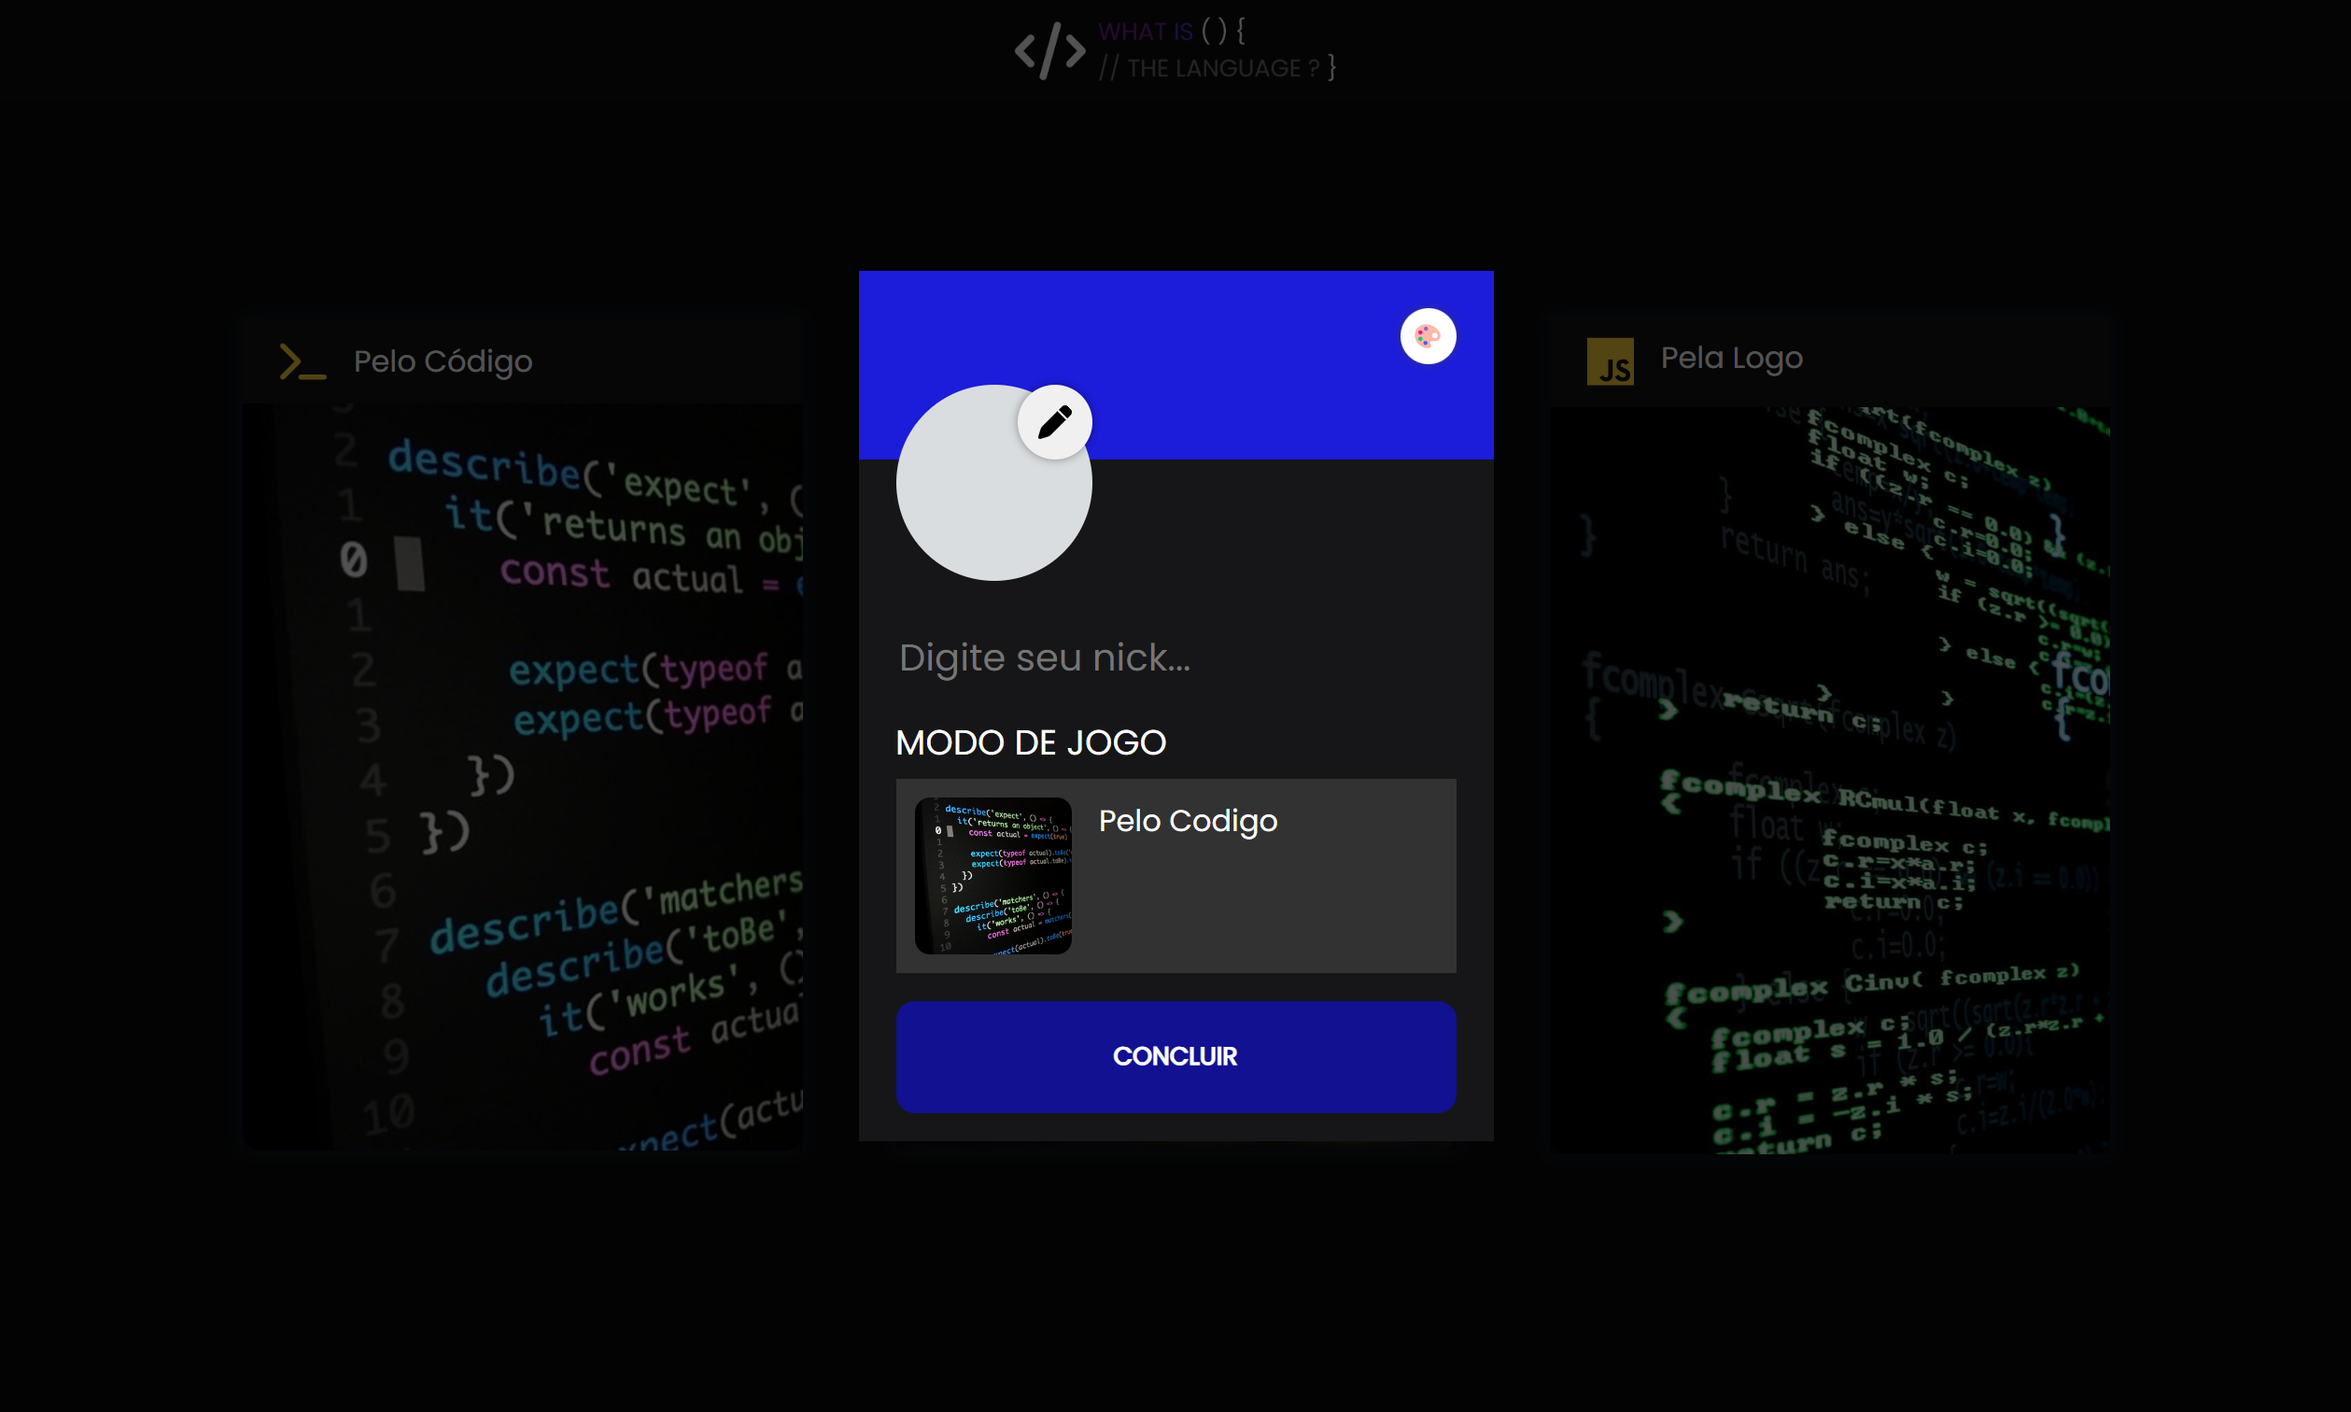
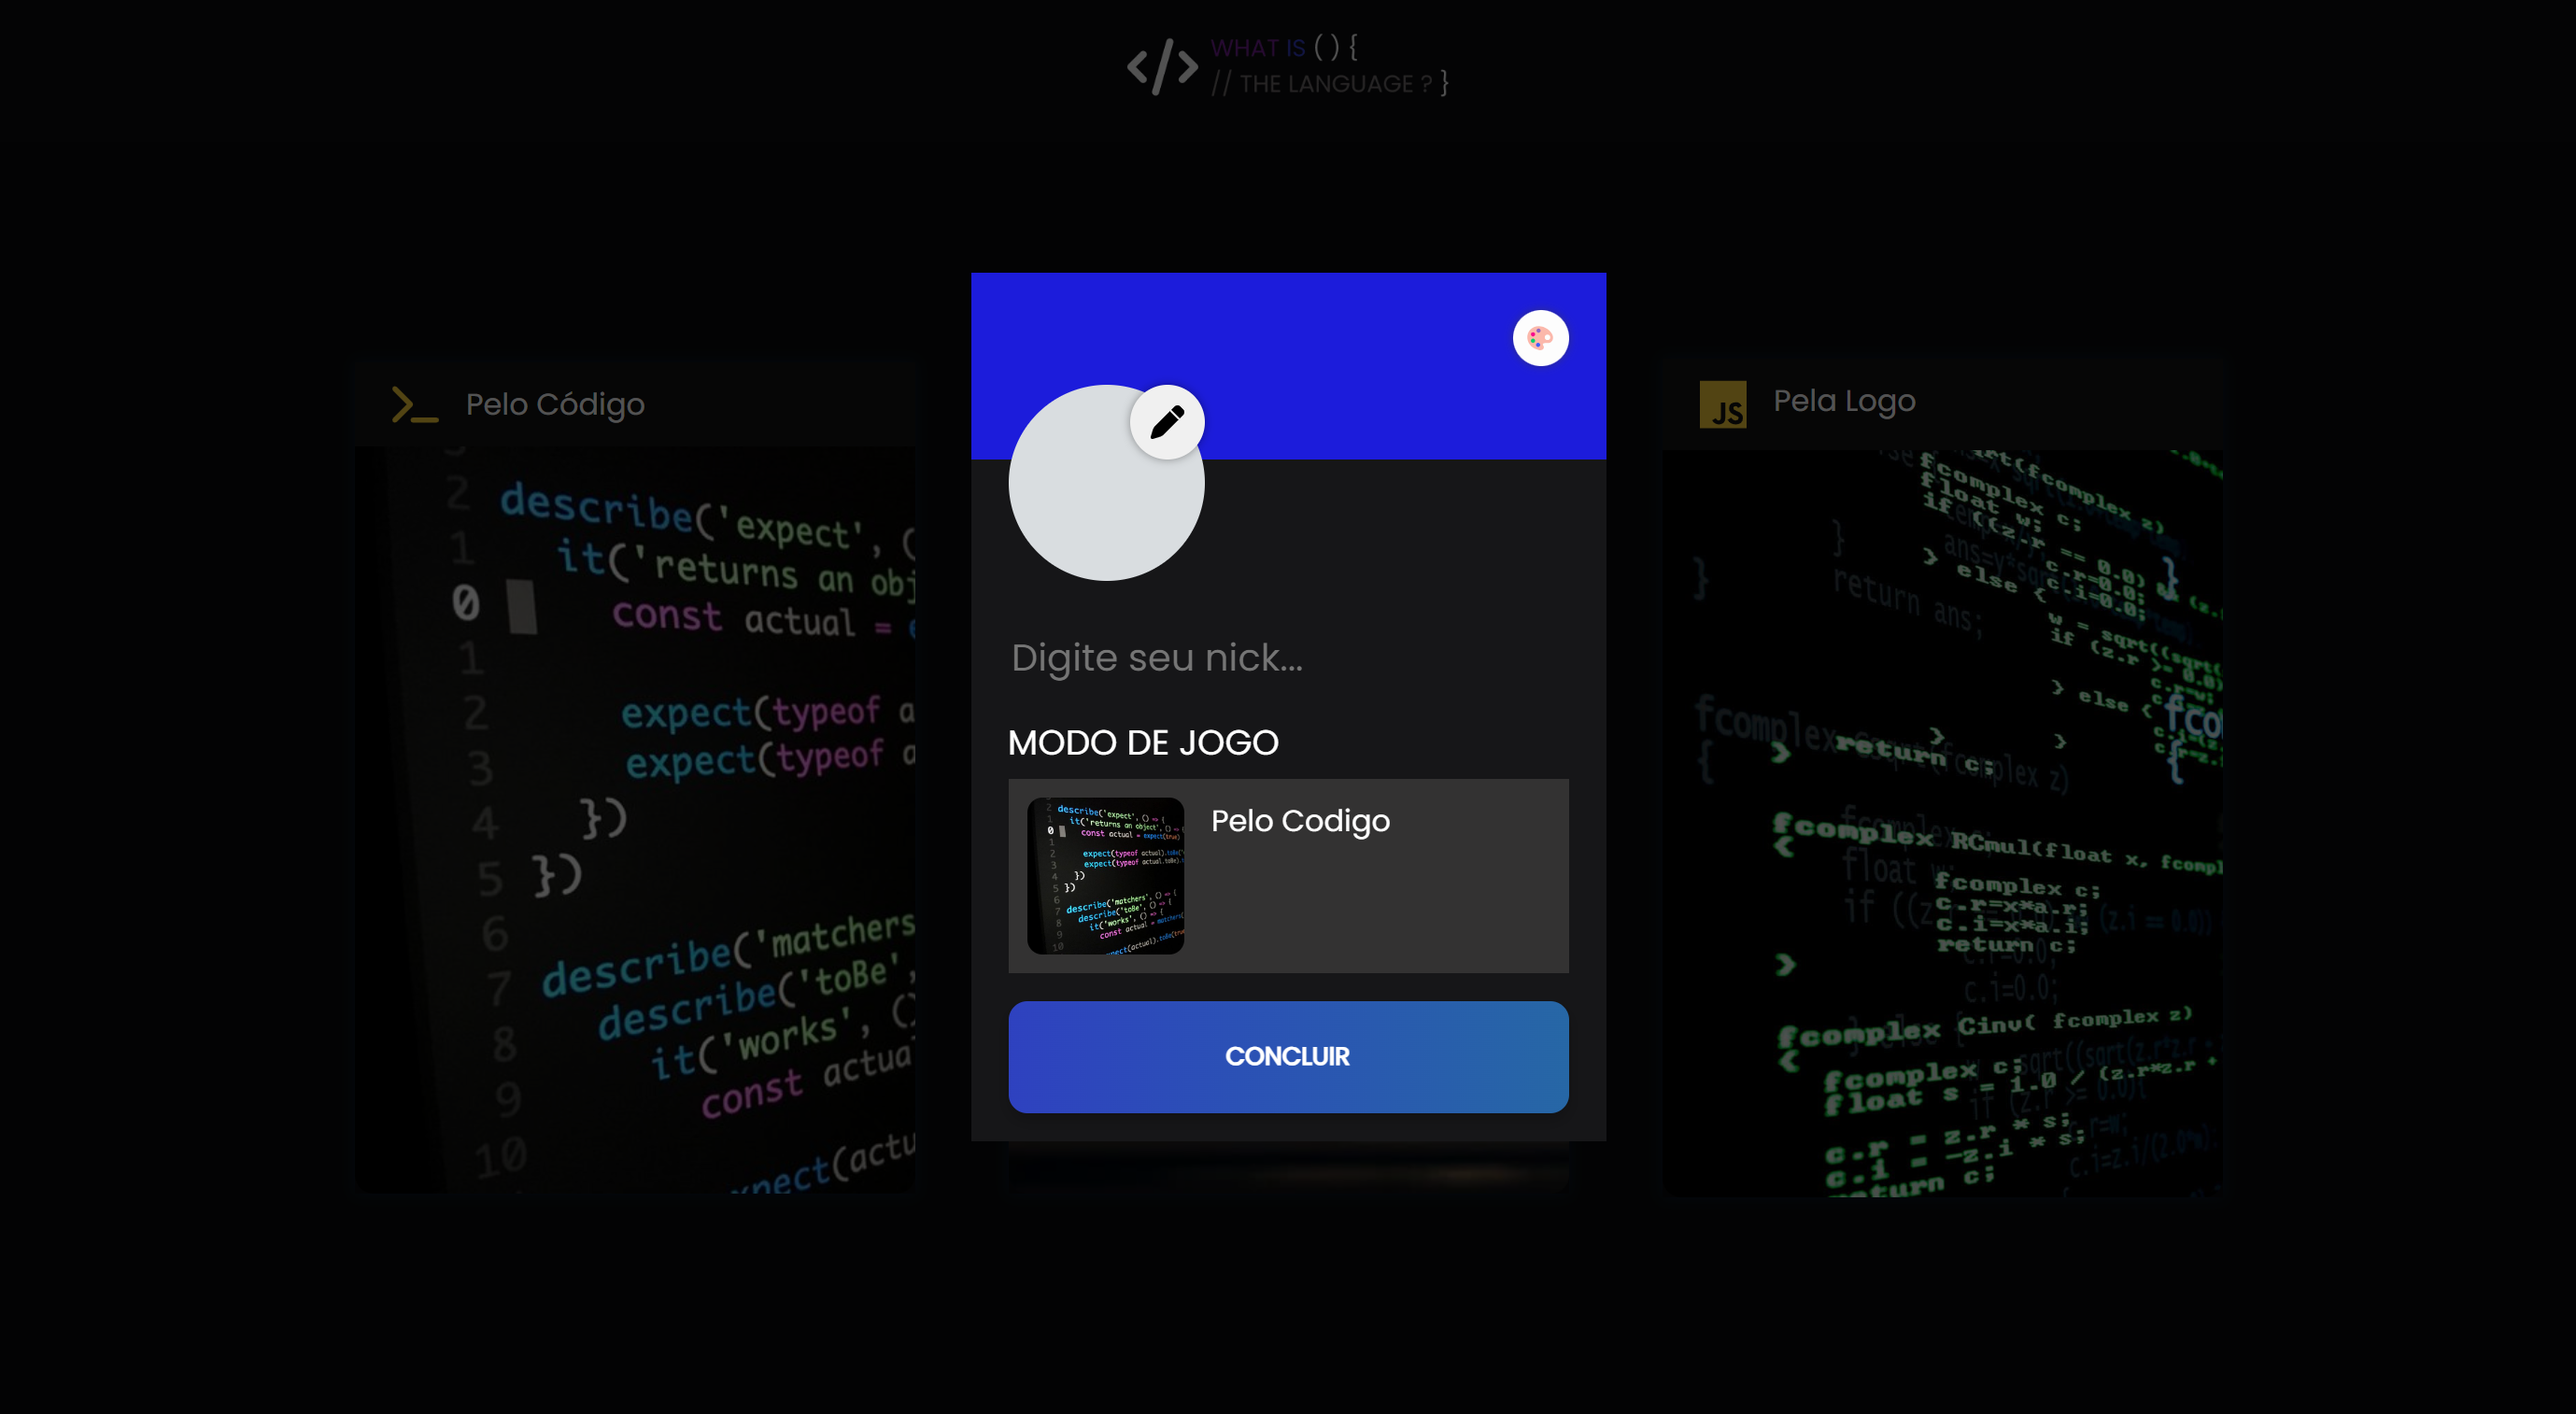
docs: Adiciona tutorial de como instalar o banco de dados

diff --git a/src/front-end/css/peloCodigo.css b/src/front-end/css/peloCodigo.css
@@ -297,7 +297,10 @@ main{
 }
 
 .modal-content button {
-  background-color: #102fb6;
+  background: linear-gradient(90deg, #3230cc, #2668a5, #310adb);
+  background-size: 300% 100%;
+  animation: gradientMove 3s linear infinite;
+  transition: transform 0.3s ease;
   color: white;
   padding: 10px 20px;
   margin-top: 15px;

diff --git a/README.md b/README.md
@@ -4,7 +4,7 @@
 ![logo](src/front-end/assets/icons/logo-large.png)
 </div>
 
-Um projeto Full-Stack desenvolvido na avaliação de Desenvolvimento Web, com o tema livre, decidi criar um site Game interativo e divertido de advinhar linguagens de programação. Como inspiração usei o site [Gamedle](https://www.gamedle.wtf).
+Um projeto Full-Stack desenvolvido na avaliação de Desenvolvimento Web, com o tema livre, decidi criar um Game Web interativo e divertido de advinhar linguagens de programação. Como inspiração usei o site [Gamedle](https://www.gamedle.wtf).
 
 ## </> Topicos
 
@@ -13,12 +13,13 @@ Um projeto Full-Stack desenvolvido na avaliação de Desenvolvimento Web, com o 
 - [Tecnologias Utilizadas](#tecnologias-utilizadas)
 - [Endpoints da API](#endpoints-da-api)
 - [Como Executar o Projeto Localmente](#como-executar-o-projeto-localmente)
+- [Como Configurar o Banco De Dados](#como-configurar-o-banco-de-dados)
 - [Licença](#licença)
 - [Contato](#contato)
 
 ## </> Descrição do Projeto
 
-O **What Is The Language**  ou **WITL** é um site Game onde o usuário advinha qual é a linguagem de progamação através de dicas, o usuário pode escolher entre 2 modos de jogo, **Advinhe Pela Logo** ou **Advinhe Pelo Código**, ambos os modos possuem sistemas de pontos e vidas, o usuário ganha pontos por acertar a advinhar a linguagem e perde vidas toda vez que erra. O jogo encerra quando o usuário perder todas as vidas ou acertando todas as linguagens, após isso aparecerá uma tela **Ranking** de todos os jogadores com seus nomes e suas pontuações.
+O **What Is The Language**  ou **WITL** é um Game Web onde o usuário advinha qual é a linguagem de progamação através de dicas, o usuário pode escolher entre 2 modos de jogo, **Advinhe Pela Logo** ou **Advinhe Pelo Código**, ambos os modos possuem sistemas de pontos e vidas, o usuário ganha pontos por acertar a advinhar a linguagem e perde vidas toda vez que erra. O jogo encerra quando o usuário perder todas as vidas ou acertando todas as linguagens, após isso aparecerá uma tela **Ranking** de todos os jogadores com seus nomes e suas pontuações.
 
 ## </> Screenshots Do Projeto
 **Screenshots Mobile - (Clique nas imagens para amplia-las)**
@@ -29,6 +30,7 @@ O **What Is The Language**  ou **WITL** é um site Game onde o usuário advinha 
   <img src="readme/Mobile/PeloCodigo-mobile.png" alt="Tela inicial de Pelo Codigo" width="150"/>
   <img src="readme/Mobile/Pelo Codigo - mobile - acerto.png" alt="modal de acerto" width="150"/>
   <img src="readme/Mobile/ranking-mobile.png" alt="ranking geral" width="150"/>
+  <img src="readme/Mobile/PeloCodigo-Fim.png" alt="fim" width="150"/>
 </div>
 
 **Screenshots Desktop - (Clique nas imagens para amplia-las)**
@@ -39,6 +41,7 @@ O **What Is The Language**  ou **WITL** é um site Game onde o usuário advinha 
   <img src="readme/Desktop/pelocodigo-desktop.png" alt="Tela incial de Pelo Codigo" width="350"/>
   <img src="readme/Desktop/pelocodigo-desktop-acerto.png" alt="Modal Acerto" width="350"/>
   <img src="readme/Desktop/ranking-desktop.png" alt="Ranking geral" width="350"/>
+   <img src="readme/Desktop/PeloCodigo-Fim-Desktop.png" alt="Fim" width="350"/>
 </div>
 
 
@@ -200,7 +203,6 @@ CREATE TABLE ranking (
 - `pontos`: Pontos acumulados pelo jogador.
 - `modo_jogo`: Modo de jogo (ex: Pelo codigo, Pela Logo).
 
-
 ## </> Como Executar o Projeto Localmente
 
 1. Clone este repositório:
@@ -219,6 +221,90 @@ CREATE TABLE ranking (
      node src/back-end/server.js
      ```
 4. Inicie o frontend abrindo o arquivo `index.html` em um navegador.
+
+## </> Como Configurar o Banco De Dados
+
+Como configurar o banco de dados PostgreSQL e executar os scripts `create.sql` e `insert.sql` para iniciar corretamente o jogo.
+
+### 1. Instalar o PostgreSQL
+
+Se ainda não possui o PostgreSQL instalado, siga os passos abaixo:
+
+1. Baixe o instalador do PostgreSQL no site oficial: 
+
+    ```http
+    https://www.postgresql.org/download/
+    ```
+
+2. Durante a instalação, defina uma senha para o usuário postgres.
+
+3. Certifique-se de instalar o **pgAdmin** para gerenciar o banco de forma visual (opcional).
+
+### 2. Criando o Banco de Dados
+
+Após instalar o PostgreSQL, siga os passos para criar o banco de dados:
+
+**Usando o pgAdmin:**
+
+1. Abra o **pgAdmin**.
+
+2. Conecte-se ao servidor PostgreSQL.
+
+3. Clique com o botão direito em **Databases** e selecione **Create > Database**.
+
+4. No campo **Database name**, insira `witl` e clique em **Save**.
+
+**Usando o terminal (psql):**
+
+1. Abra o terminal e execute:
+
+    ```ps
+    psql -U postgres
+    ``` 
+2. Digite a senha do usuário `postgres`.
+
+3. Crie o banco de dados com:
+    ```sql
+    CREATE DATABASE witl;
+    ```
+
+### 3. Executando os Scripts SQL
+
+Agora, vamos criar as tabelas e inserir os dados iniciais.
+
+**Usando o pgAdmin:**
+
+1. No **pgAdmin**, expanda **Databases > witl > Schemas > public**.
+
+2. Clique em **Query Tool**.
+
+3. Copie e cole o conteúdo do arquivo `create.sql` e execute.
+
+4. Faça o mesmo para `insert.sql`.
+
+**Usando o terminal (psql):**
+
+1. No terminal, conecte-se ao banco de dados:
+    ```ps
+    psql -U postgres -d witl_db
+    ```
+2. Execute os arquivos SQL:
+    ```bash
+    \i /caminho/para/create.sql
+    \i /caminho/para/insert.sql
+    ```
+
+### 4. Verificando os Dados
+
+Após rodar os scripts, você pode conferir se os dados foram inseridos corretamente.
+
+No **pgAdmin** ou no **terminal**, execute:
+
+```sql
+SELECT * FROM ranking;
+```
+
+Isso deve exibir os jogadores e suas pontuações.
 
 ## 📄 Licença
 
